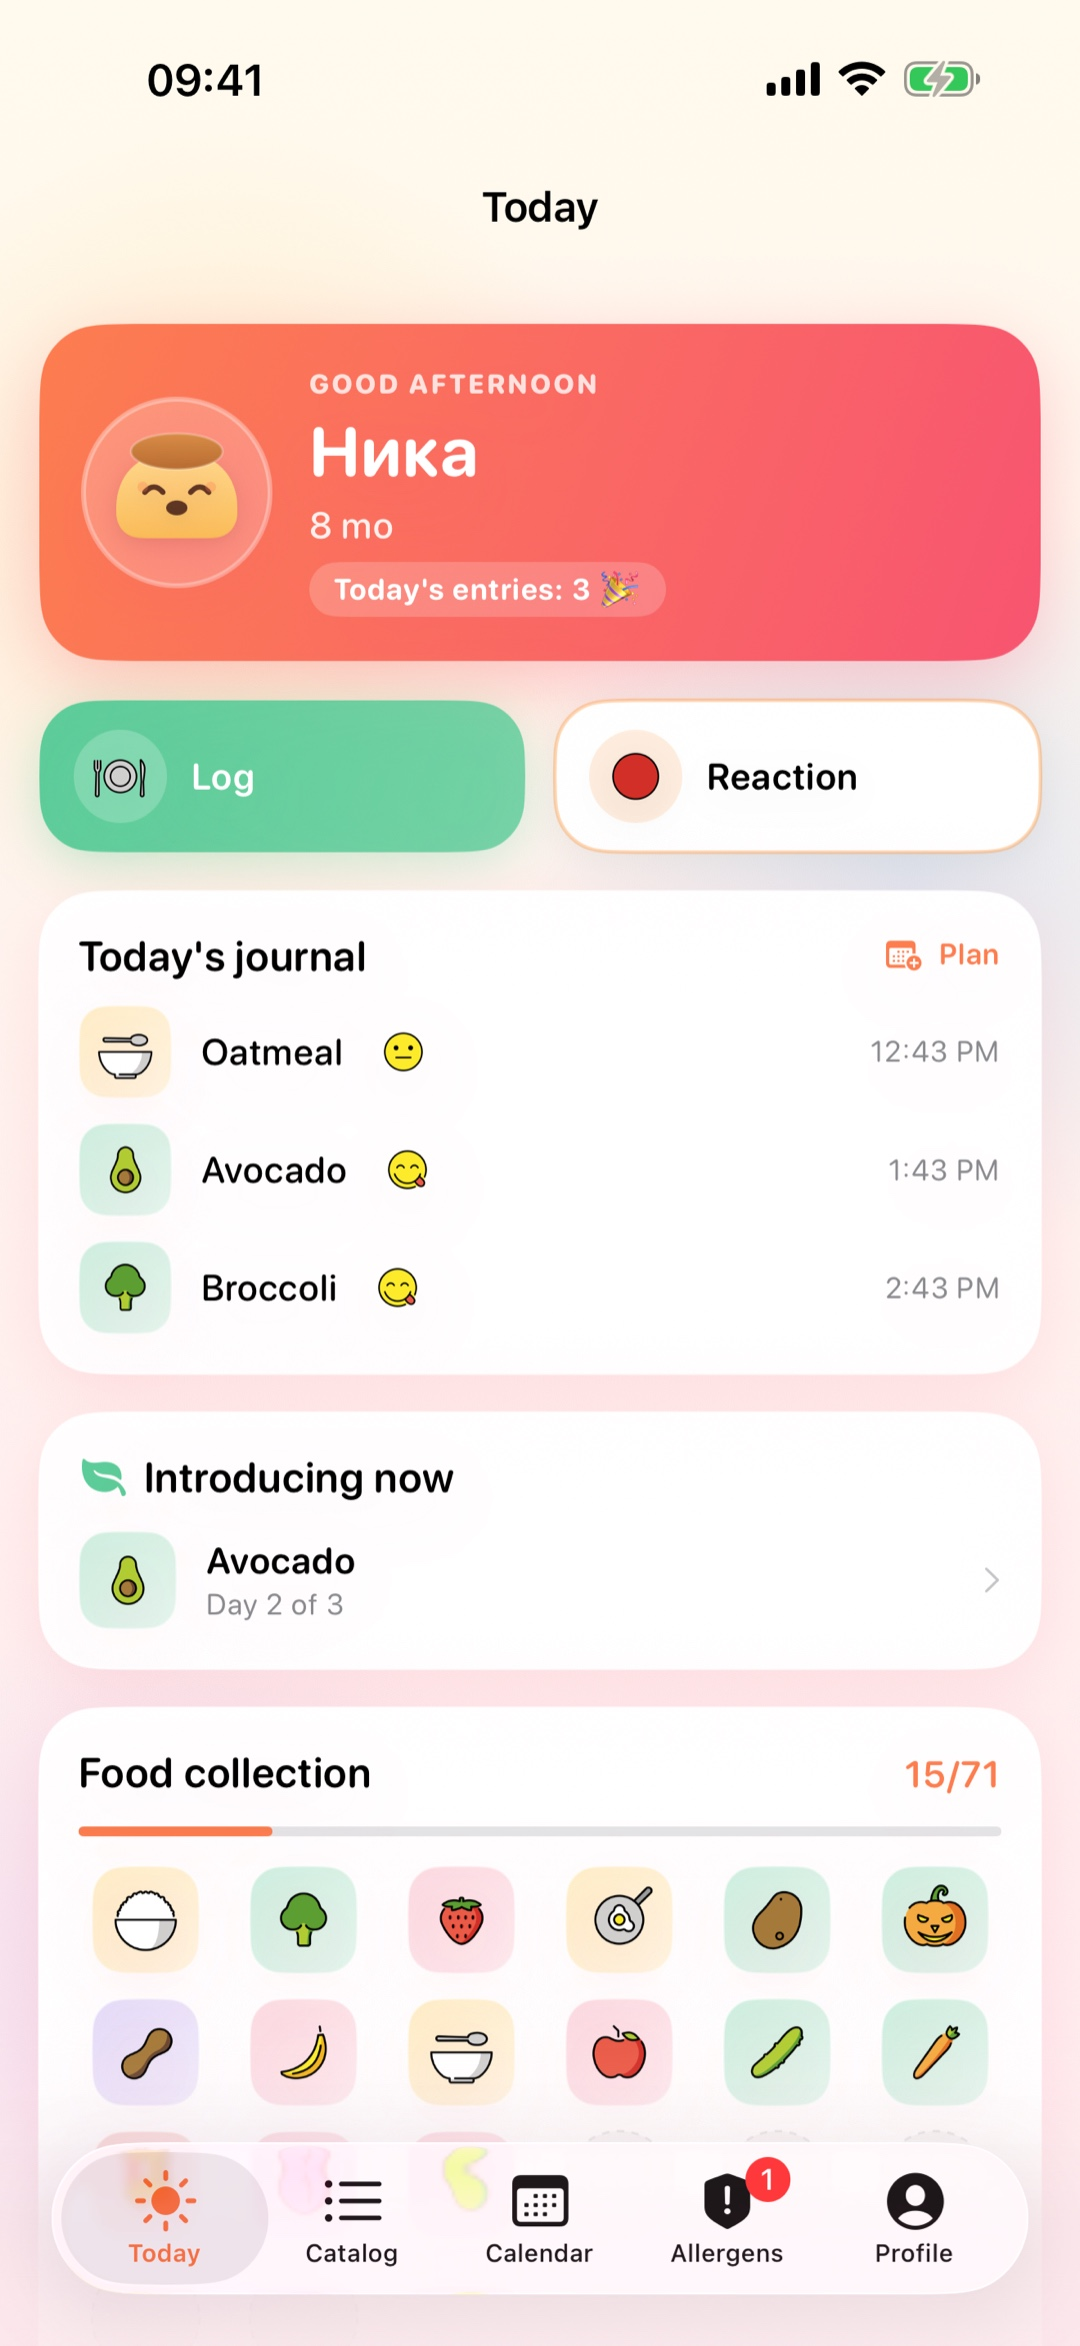
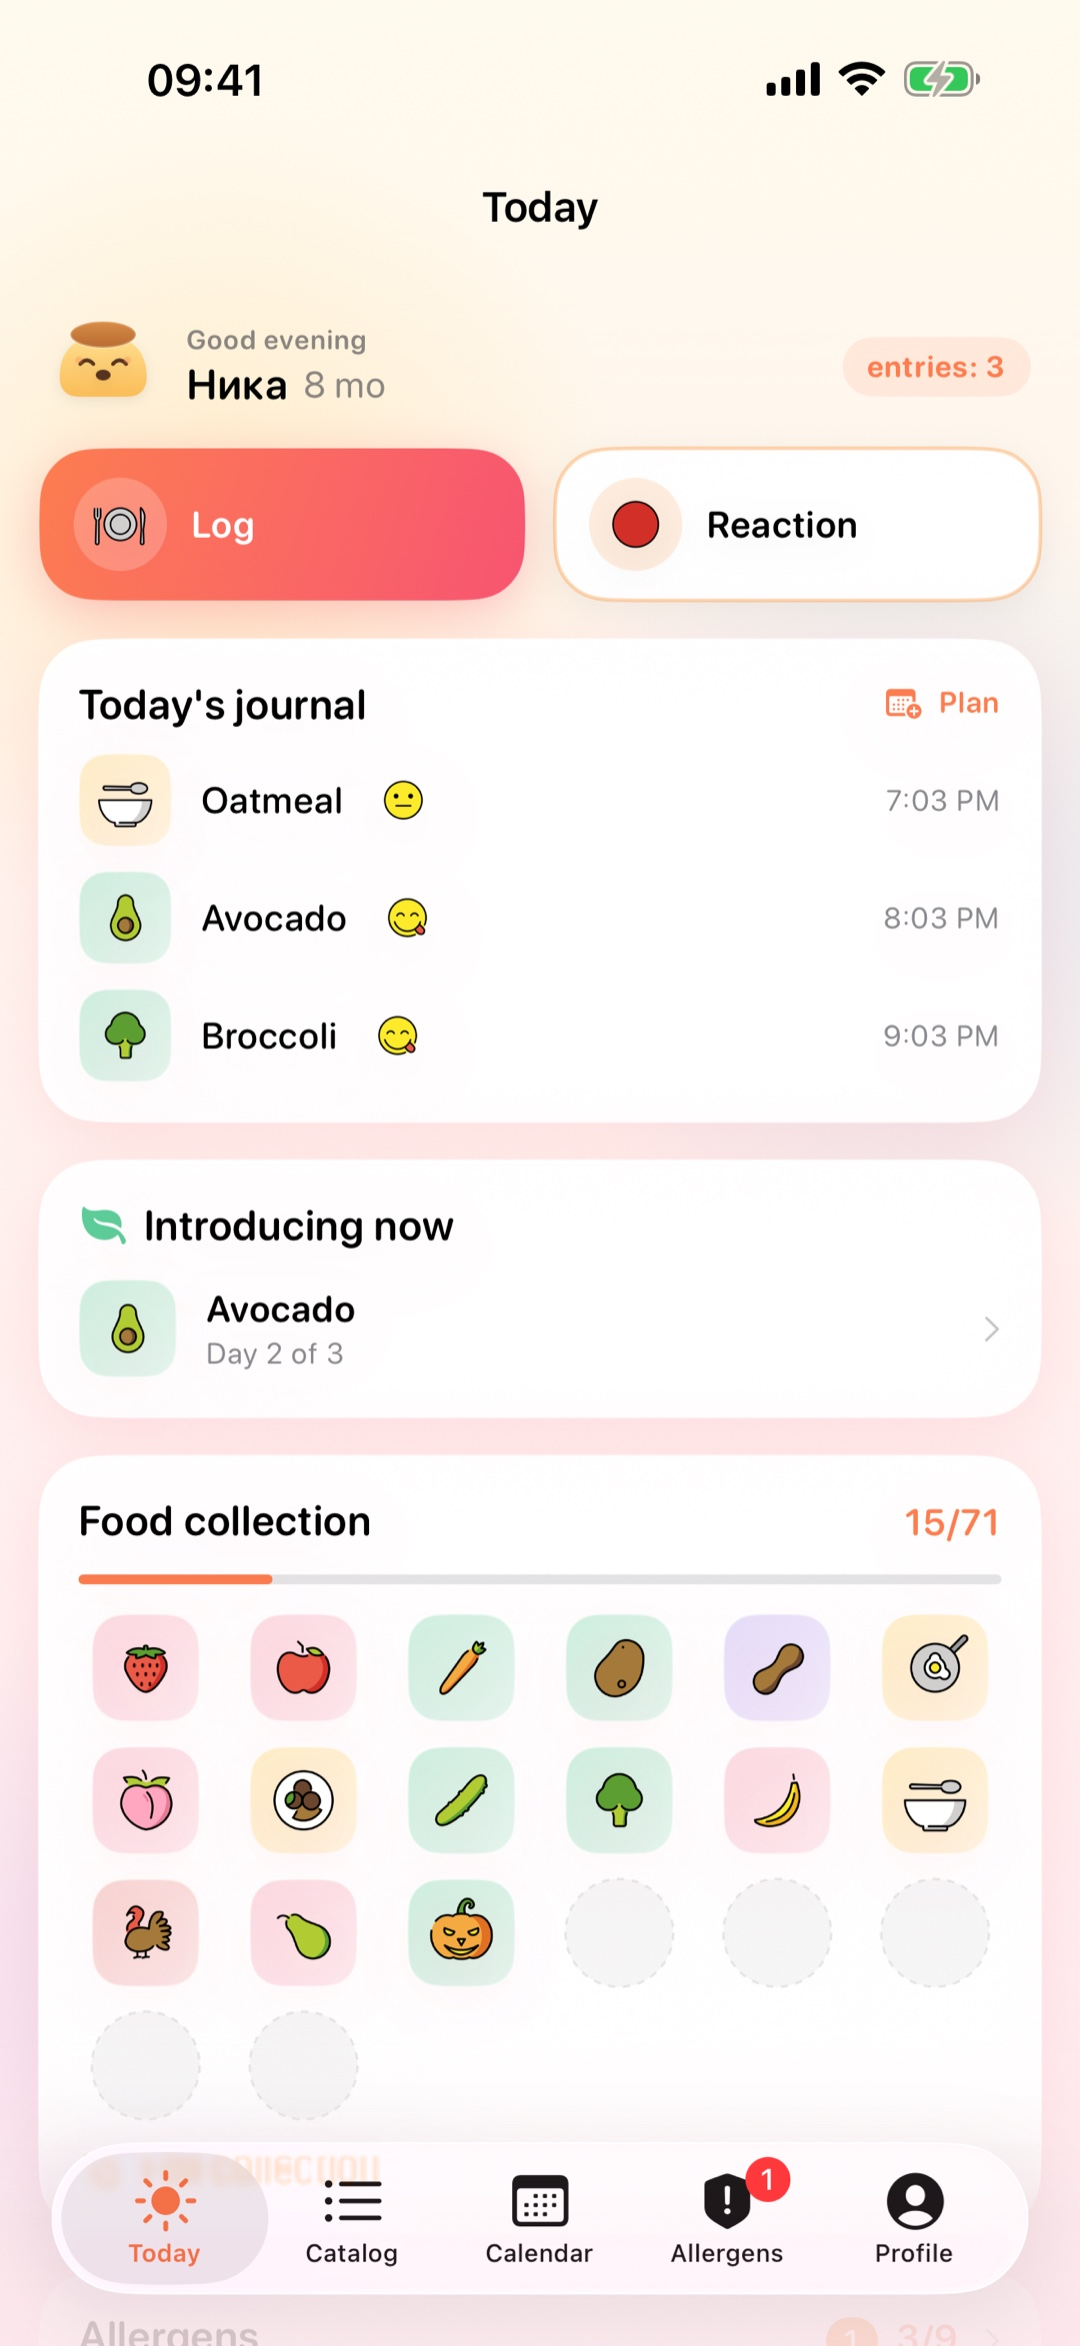
site: свежие скрины (после июльской полировки UI) + чистые URL
- site/assets/screens/{ru,en} пересобраны из appstore_screenshots/raw
  (съёмка 26.07, компактная главная и новые шторки); 1080px, JPEG q92
- канонические ссылки, hreflang и внутренние переходы на privacy/terms
  переведены на чистые URL — раньше вели на .html и ловили 308 (cleanUrls)
- sitemap.xml тоже на чистых URL

diff --git a/site/terms.html b/site/terms.html
@@ -6,10 +6,10 @@
   <title>Условия использования — Pudding</title>
   <meta name="description" content="Условия использования приложения Pudding.">
   <meta name="robots" content="index, follow">
-  <link rel="canonical" href="https://pudding-for-children.vercel.app/terms.html">
-  <link rel="alternate" hreflang="ru" href="https://pudding-for-children.vercel.app/terms.html">
-  <link rel="alternate" hreflang="en" href="https://pudding-for-children.vercel.app/en/terms.html">
-  <link rel="alternate" hreflang="x-default" href="https://pudding-for-children.vercel.app/terms.html">
+  <link rel="canonical" href="https://pudding-for-children.vercel.app/terms">
+  <link rel="alternate" hreflang="ru" href="https://pudding-for-children.vercel.app/terms">
+  <link rel="alternate" hreflang="en" href="https://pudding-for-children.vercel.app/en/terms">
+  <link rel="alternate" hreflang="x-default" href="https://pudding-for-children.vercel.app/terms">
   <link rel="icon" href="/assets/pudding.svg" type="image/svg+xml">
   <link rel="preconnect" href="https://fonts.googleapis.com">
   <link href="https://fonts.googleapis.com/css2?family=Nunito:wght@400;700;800;900&display=swap&subset=cyrillic" rel="stylesheet">
@@ -20,7 +20,7 @@
     <div class="wrap nav">
       <a class="brand" href="/"><img src="/assets/pudding.svg" alt="Pudding">Pudding</a>
       <div class="nav-right">
-        <span class="lang"><a class="active" href="/terms.html">RU</a> · <a href="/en/terms.html">EN</a></span>
+        <span class="lang"><a class="active" href="/terms">RU</a> · <a href="/en/terms">EN</a></span>
       </div>
     </div>
   </header>
@@ -48,7 +48,7 @@
       <p>В максимально допустимой законом степени мы не несём ответственности за любой ущерб, возникший в связи с использованием или невозможностью использования приложения.</p>
 
       <h2>6. Конфиденциальность</h2>
-      <p>Использование приложения регулируется нашей <a href="/privacy.html">Политикой конфиденциальности</a>. Приложение не собирает данные — всё хранится на вашем устройстве.</p>
+      <p>Использование приложения регулируется нашей <a href="/privacy">Политикой конфиденциальности</a>. Приложение не собирает данные — всё хранится на вашем устройстве.</p>
 
       <h2>7. Платные функции</h2>
       <p>На старте приложение бесплатно. Если в будущем появятся платные функции (подписка), соответствующие условия покупки, продления и возврата будут добавлены сюда и оформлены через App Store.</p>
@@ -59,7 +59,7 @@
       <h2>9. Контакты</h2>
       <p><a href="mailto:woodoo201818@gmail.com">woodoo201818@gmail.com</a></p>
 
-      <p style="margin-top:24px"><a href="/">← На главную</a> · <a href="/privacy.html">Политика конфиденциальности</a></p>
+      <p style="margin-top:24px"><a href="/">← На главную</a> · <a href="/privacy">Политика конфиденциальности</a></p>
     </article>
   </main>
 

diff --git a/site/en/terms.html b/site/en/terms.html
@@ -6,10 +6,10 @@
   <title>Terms of Service — Pudding</title>
   <meta name="description" content="Terms of Service for the Pudding app.">
   <meta name="robots" content="index, follow">
-  <link rel="canonical" href="https://pudding-for-children.vercel.app/en/terms.html">
-  <link rel="alternate" hreflang="ru" href="https://pudding-for-children.vercel.app/terms.html">
-  <link rel="alternate" hreflang="en" href="https://pudding-for-children.vercel.app/en/terms.html">
-  <link rel="alternate" hreflang="x-default" href="https://pudding-for-children.vercel.app/terms.html">
+  <link rel="canonical" href="https://pudding-for-children.vercel.app/en/terms">
+  <link rel="alternate" hreflang="ru" href="https://pudding-for-children.vercel.app/terms">
+  <link rel="alternate" hreflang="en" href="https://pudding-for-children.vercel.app/en/terms">
+  <link rel="alternate" hreflang="x-default" href="https://pudding-for-children.vercel.app/terms">
   <link rel="icon" href="/assets/pudding.svg" type="image/svg+xml">
   <link rel="preconnect" href="https://fonts.googleapis.com">
   <link href="https://fonts.googleapis.com/css2?family=Nunito:wght@400;700;800;900&display=swap" rel="stylesheet">
@@ -20,7 +20,7 @@
     <div class="wrap nav">
       <a class="brand" href="/en/"><img src="/assets/pudding.svg" alt="Pudding">Pudding</a>
       <div class="nav-right">
-        <span class="lang"><a href="/terms.html">RU</a> · <a class="active" href="/en/terms.html">EN</a></span>
+        <span class="lang"><a href="/terms">RU</a> · <a class="active" href="/en/terms">EN</a></span>
       </div>
     </div>
   </header>
@@ -48,7 +48,7 @@
       <p>To the maximum extent permitted by law, we are not liable for any damages arising from the use of, or inability to use, the app.</p>
 
       <h2>6. Privacy</h2>
-      <p>Your use of the app is governed by our <a href="/en/privacy.html">Privacy Policy</a>. The app collects no data — everything stays on your device.</p>
+      <p>Your use of the app is governed by our <a href="/en/privacy">Privacy Policy</a>. The app collects no data — everything stays on your device.</p>
 
       <h2>7. Paid features</h2>
       <p>The app is free at launch. If paid features (a subscription) are added later, the relevant purchase, renewal, and refund terms will be added here and handled through the App Store.</p>
@@ -59,7 +59,7 @@
       <h2>9. Contact</h2>
       <p><a href="mailto:woodoo201818@gmail.com">woodoo201818@gmail.com</a></p>
 
-      <p style="margin-top:24px"><a href="/en/">← Home</a> · <a href="/en/privacy.html">Privacy Policy</a></p>
+      <p style="margin-top:24px"><a href="/en/">← Home</a> · <a href="/en/privacy">Privacy Policy</a></p>
     </article>
   </main>
 

diff --git a/site/privacy.html b/site/privacy.html
@@ -6,10 +6,10 @@
   <title>Политика конфиденциальности — Pudding</title>
   <meta name="description" content="Политика конфиденциальности Pudding: приложение не собирает данные, всё хранится только на устройстве.">
   <meta name="robots" content="index, follow">
-  <link rel="canonical" href="https://pudding-for-children.vercel.app/privacy.html">
-  <link rel="alternate" hreflang="ru" href="https://pudding-for-children.vercel.app/privacy.html">
-  <link rel="alternate" hreflang="en" href="https://pudding-for-children.vercel.app/en/privacy.html">
-  <link rel="alternate" hreflang="x-default" href="https://pudding-for-children.vercel.app/privacy.html">
+  <link rel="canonical" href="https://pudding-for-children.vercel.app/privacy">
+  <link rel="alternate" hreflang="ru" href="https://pudding-for-children.vercel.app/privacy">
+  <link rel="alternate" hreflang="en" href="https://pudding-for-children.vercel.app/en/privacy">
+  <link rel="alternate" hreflang="x-default" href="https://pudding-for-children.vercel.app/privacy">
   <link rel="icon" href="/assets/pudding.svg" type="image/svg+xml">
   <link rel="preconnect" href="https://fonts.googleapis.com">
   <link href="https://fonts.googleapis.com/css2?family=Nunito:wght@400;700;800;900&display=swap&subset=cyrillic" rel="stylesheet">
@@ -20,7 +20,7 @@
     <div class="wrap nav">
       <a class="brand" href="/"><img src="/assets/pudding.svg" alt="Pudding">Pudding</a>
       <div class="nav-right">
-        <span class="lang"><a class="active" href="/privacy.html">RU</a> · <a href="/en/privacy.html">EN</a></span>
+        <span class="lang"><a class="active" href="/privacy">RU</a> · <a href="/en/privacy">EN</a></span>
       </div>
     </div>
   </header>
@@ -61,7 +61,7 @@
       <h2>Контакты</h2>
       <p>Вопросы по конфиденциальности: <a href="mailto:woodoo201818@gmail.com">woodoo201818@gmail.com</a>.</p>
 
-      <p style="margin-top:24px"><a href="/">← На главную</a> · <a href="/terms.html">Условия использования</a></p>
+      <p style="margin-top:24px"><a href="/">← На главную</a> · <a href="/terms">Условия использования</a></p>
     </article>
   </main>
 

diff --git a/site/en/privacy.html b/site/en/privacy.html
@@ -6,10 +6,10 @@
   <title>Privacy Policy — Pudding</title>
   <meta name="description" content="Pudding privacy policy: the app collects no data, everything stays on your device.">
   <meta name="robots" content="index, follow">
-  <link rel="canonical" href="https://pudding-for-children.vercel.app/en/privacy.html">
-  <link rel="alternate" hreflang="ru" href="https://pudding-for-children.vercel.app/privacy.html">
-  <link rel="alternate" hreflang="en" href="https://pudding-for-children.vercel.app/en/privacy.html">
-  <link rel="alternate" hreflang="x-default" href="https://pudding-for-children.vercel.app/privacy.html">
+  <link rel="canonical" href="https://pudding-for-children.vercel.app/en/privacy">
+  <link rel="alternate" hreflang="ru" href="https://pudding-for-children.vercel.app/privacy">
+  <link rel="alternate" hreflang="en" href="https://pudding-for-children.vercel.app/en/privacy">
+  <link rel="alternate" hreflang="x-default" href="https://pudding-for-children.vercel.app/privacy">
   <link rel="icon" href="/assets/pudding.svg" type="image/svg+xml">
   <link rel="preconnect" href="https://fonts.googleapis.com">
   <link href="https://fonts.googleapis.com/css2?family=Nunito:wght@400;700;800;900&display=swap" rel="stylesheet">
@@ -20,7 +20,7 @@
     <div class="wrap nav">
       <a class="brand" href="/en/"><img src="/assets/pudding.svg" alt="Pudding">Pudding</a>
       <div class="nav-right">
-        <span class="lang"><a href="/privacy.html">RU</a> · <a class="active" href="/en/privacy.html">EN</a></span>
+        <span class="lang"><a href="/privacy">RU</a> · <a class="active" href="/en/privacy">EN</a></span>
       </div>
     </div>
   </header>
@@ -61,7 +61,7 @@
       <h2>Contact</h2>
       <p>Privacy questions: <a href="mailto:woodoo201818@gmail.com">woodoo201818@gmail.com</a>.</p>
 
-      <p style="margin-top:24px"><a href="/en/">← Home</a> · <a href="/en/terms.html">Terms of Service</a></p>
+      <p style="margin-top:24px"><a href="/en/">← Home</a> · <a href="/en/terms">Terms of Service</a></p>
     </article>
   </main>
 
